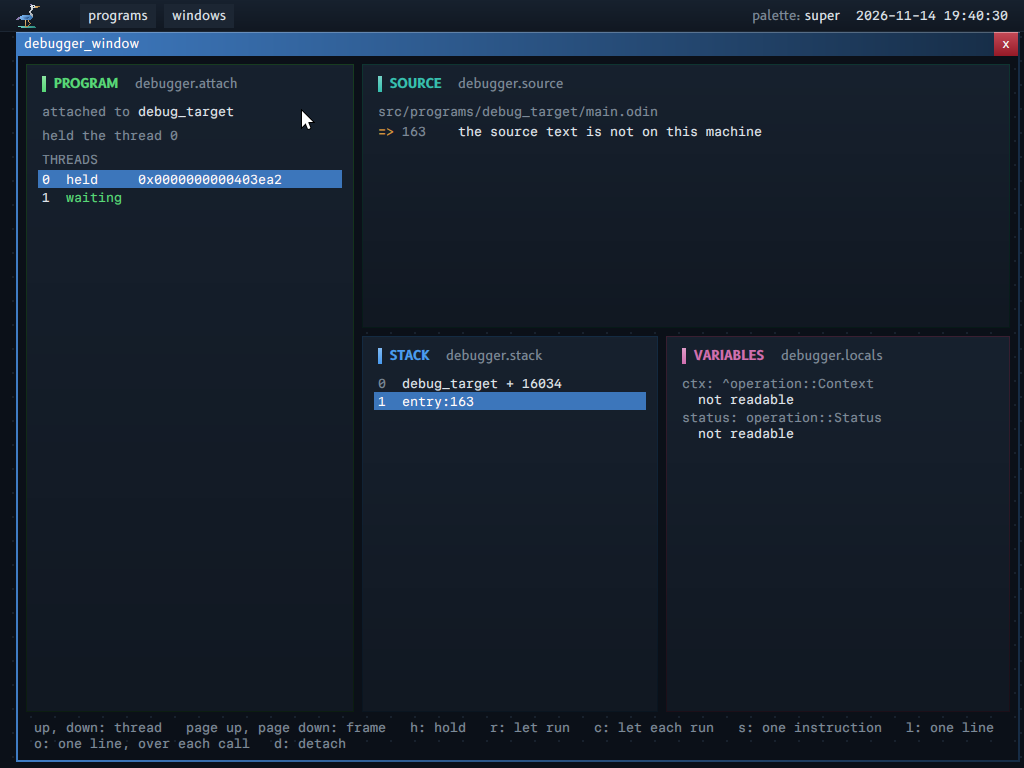
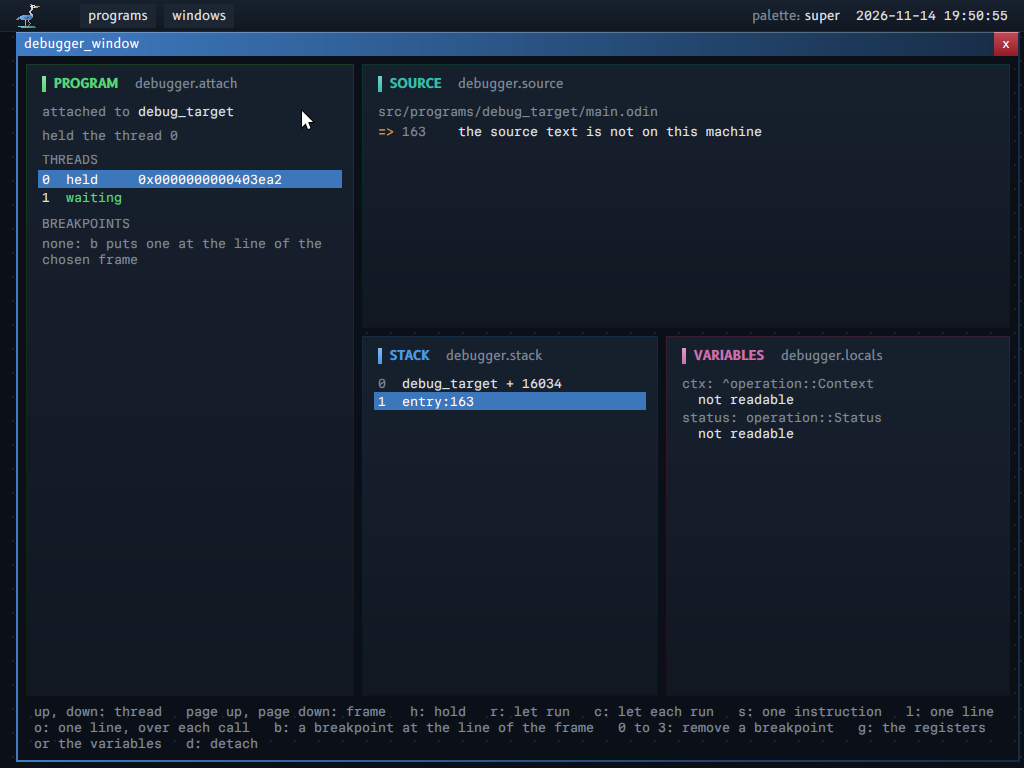
The picture of the window of the debugger with a breakpoint and the registers, in the gallery

Changed region(s): [[0.0312, 0.9062, 0.9688, 1.0], [0.0312, 0.2812, 0.3125, 0.3438], [0.9688, 0.0, 1.0, 0.0312]]

diff --git a/docs/SITE.md b/docs/SITE.md
@@ -490,13 +490,13 @@ The groups (`site_gallery_groups`), each with a title and one sentence:
 | Rights, grants and faults | 13 |
 | Modules | 9 |
 | Memory, threads and time | 16 |
-| The developer tools | 5 |
+| The developer tools | 6 |
 | The interface and the fonts | 10 |
 | The network, the cryptography and the randomness | 10 |
 | The storage | 8 |
 | The boot and the trusted boot | 7 |
 
-114 rows. The excluded files:
+115 rows. The excluded files:
 
 | File | Reason |
 |---|---|
